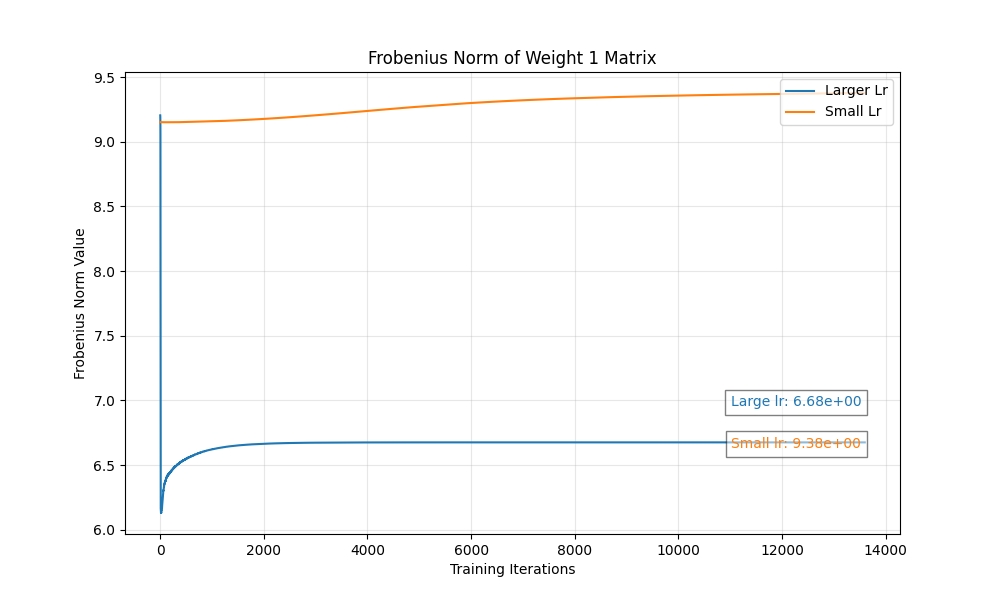
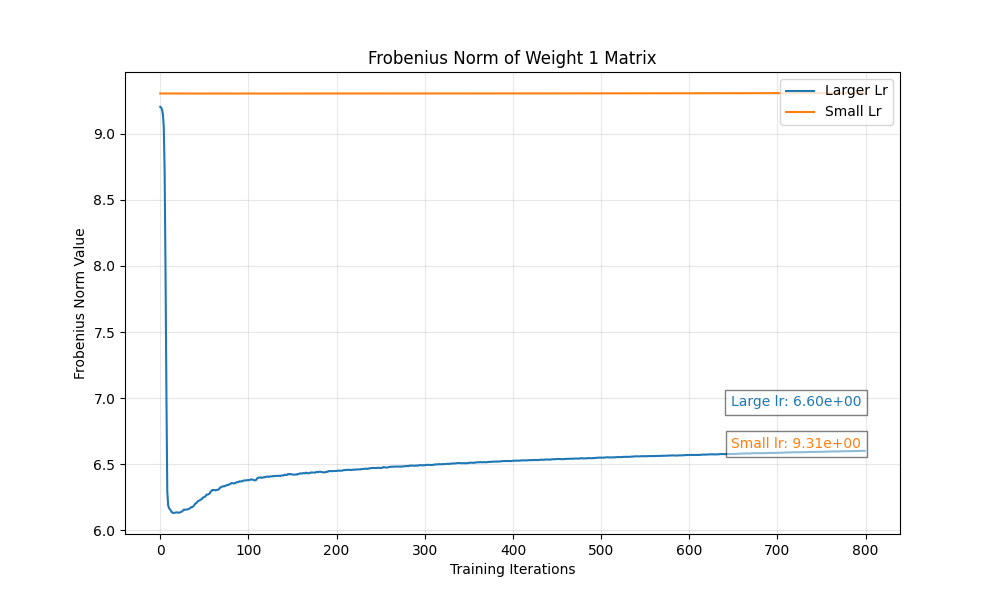
all experiements completed

diff --git a/intuition.py b/intuition.py
@@ -23,14 +23,14 @@ def experiment1():
 
   print("Training Catapult Model...")
   # Final Test Loss: 0.222584, R²: 0.733668
-  exp = train_model(train_dataset, test_dataset, 0.1, 1700, weight_decay=0.00)
+  exp = train_model(train_dataset, test_dataset, 0.1, 100, weight_decay=0.00)
 
   print("Training Control Model...")
   # Past 1700 epochs we get an error 
   # "eigenvalues, eigenvectors = torch.linalg.eigh(W1WT): torch._C._LinAlgError: linalg.eigh: The algorithm failed to converge because the input matrix is ill-conditioned or has too many repeated eigenvalues (error code: 289)."
   # Our weight matrix becomes Ill conditioned and has too many repeated eigenvalues where eigendecoposition struggles to converge.
   # Final Test Loss: 0.237700, R²: 0.715581
-  ctrl = train_model(train_dataset, test_dataset, 0.001, 1700, weight_decay=0.00)
+  ctrl = train_model(train_dataset, test_dataset, 0.001, 100, weight_decay=0.00)
 
   print("Generating Visaulizations...")
   generate_viz_2(exp, ctrl, name=TYPE)
@@ -94,7 +94,7 @@ def experiment5():
     train_dataset, test_dataset = generate_data(NUM_SAMPLES, INPUT_DIM, type=i)
 
     print("Training Catapult Model...")
-    exp = train_model(train_dataset, test_dataset, 0.0015, 1500, weight_decay=0.00, imb=True)
+    exp = train_model(train_dataset, test_dataset, 0.002, 1500, weight_decay=0.00, imb=True)
 
     print("Training Control Model...")
     ctrl = train_model(train_dataset, test_dataset, 0.0001, 1500, weight_decay=0.00, imb=True)
@@ -103,12 +103,12 @@ def experiment5():
     generate_viz_2(exp, ctrl, name=f"imb-{i}")
 
 def experiment6():
-  for i in ['ls', 'ld', 'hd', 'hs']:
+  for i in ['hs']:
     print(f"Generating Dataset {i}...")
     train_dataset, test_dataset = generate_data(NUM_SAMPLES, INPUT_DIM, type=i)
 
     print("Training Catapult Model...")
-    exp = train_model(train_dataset, test_dataset, 0.0015, 1500, weight_decay=0.00, imb=True)
+    exp = train_model(train_dataset, test_dataset, 0.002, 1500, weight_decay=0.00, imb=True)
 
     print("Training WD 0.001 Model...")
     ctrl1 = train_model(train_dataset, test_dataset, 0.0001, 1500, weight_decay=0.001, imb=True)
@@ -123,5 +123,4 @@ def experiment6():
     generate_viz_4(exp, ctrl1, ctrl2, ctrl3, name=f'imb-{i}-wd')
 
 if __name__ == "__main__":
-  experiment5()
-  experiment6()
+  experiment1()

diff --git a/utils.py b/utils.py
@@ -122,7 +122,7 @@ def generate_viz_2(exp, ctrl, name='ls'):
   ax1.legend(loc='upper right')
   ax1.grid(True, alpha=0.3)
 
-  plt.savefig(f"final_img_imb/train-{name}.png")
+  plt.savefig(f"img_intu/train-{name}.png")
   plt.tight_layout()
   # plt.show()
 
@@ -137,7 +137,7 @@ def generate_viz_2(exp, ctrl, name='ls'):
   ax1.legend(loc='upper right')
   ax1.grid(True, alpha=0.3)
 
-  plt.savefig(f"final_img_imb/test-{name}.png")
+  plt.savefig(f"img_intu/test-{name}.png")
   plt.tight_layout()
   # plt.show()
 
@@ -151,7 +151,7 @@ def generate_viz_2(exp, ctrl, name='ls'):
   ax1.legend(loc='upper right')
   ax1.grid(True, alpha=0.3)
 
-  plt.savefig(f"final_img_imb/norm-{name}.png")
+  plt.savefig(f"img_intu/norm-{name}.png")
   plt.tight_layout()
   # plt.show()
 
@@ -165,7 +165,7 @@ def generate_viz_2(exp, ctrl, name='ls'):
   ax1.legend(loc='upper right')
   ax1.grid(True, alpha=0.3)
 
-  plt.savefig(f"final_img_imb/rank-{name}.png")
+  plt.savefig(f"img_intu/rank-{name}.png")
   plt.tight_layout()
   # plt.show()
 
@@ -178,7 +178,7 @@ def generate_viz_2(exp, ctrl, name='ls'):
   add_annotation_2(ax1, exp['norm_ratios'][-1], ctrl['norm_ratios'][-1], colors['exp'], colors['ctrl'], '.2e')
   ax1.legend(loc='upper right')
   ax1.grid(True, alpha=0.3)
-  plt.savefig(f"final_img_imb/norm_ratio-{name}.png")
+  plt.savefig(f"img_intu/norm_ratio-{name}.png")
   plt.tight_layout()
   # plt.show()
 
@@ -192,7 +192,7 @@ def generate_viz_2(exp, ctrl, name='ls'):
   ax1.legend(loc='upper right')
   ax1.grid(True, alpha=0.3)
 
-  plt.savefig(f"final_img_imb/cos-{name}.png")
+  plt.savefig(f"img_intu/cos-{name}.png")
   plt.tight_layout()
   # plt.show()
 
